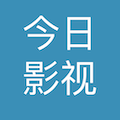
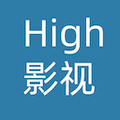
新建文件

Changed region(s): [[0.175, 0.1, 0.875, 0.825]]

diff --git a/support/index.html b/support/index.html
@@ -21,7 +21,7 @@
     <link rel="stylesheet" type="text/css" href="css/bootstrap.min.css" />
     <link rel="stylesheet" type="text/css" href="css/global.css" />
     <link rel="stylesheet" type="text/css" href="css/base.css" />
-    <title>今日影视</title>
+    <title>High影视</title>
 </head>
 
 <body>
@@ -33,7 +33,7 @@
             <p style="font-size: 20px;padding-bottom: 10px;">应用介绍</p>
             <div class="dsp margin-bottom60">
                 <section>
-                    “今日影视”提供海内外高清电影、电视剧、动漫、综艺。
+                    高清精彩影视推荐，超清在线视频
                 </section>
             </div>
         </div>
@@ -45,22 +45,22 @@
                         <tr>
                             <td>
                                 <div style="">
-                                    <img src="images/screen1.jpg">
+                                    <img src="images/screen1.png">
                                 </div>
                             </td>
                             <td>
                                 <div style="">
-                                    <img src="images/screen2.jpg">
+                                    <img src="images/screen2.png">
                                 </div>
                             </td>
                             <td>
                                 <div style="">
-                                    <img src="images/screen3.jpg">
+                                    <img src="images/screen3.png">
                                 </div>
                             </td>
                             <td>
                                 <div style="">
-                                    <img src="images/screen4.jpg">
+                                    <img src="images/screen4.png">
                                 </div>
                             </td>
                             <td></td>
